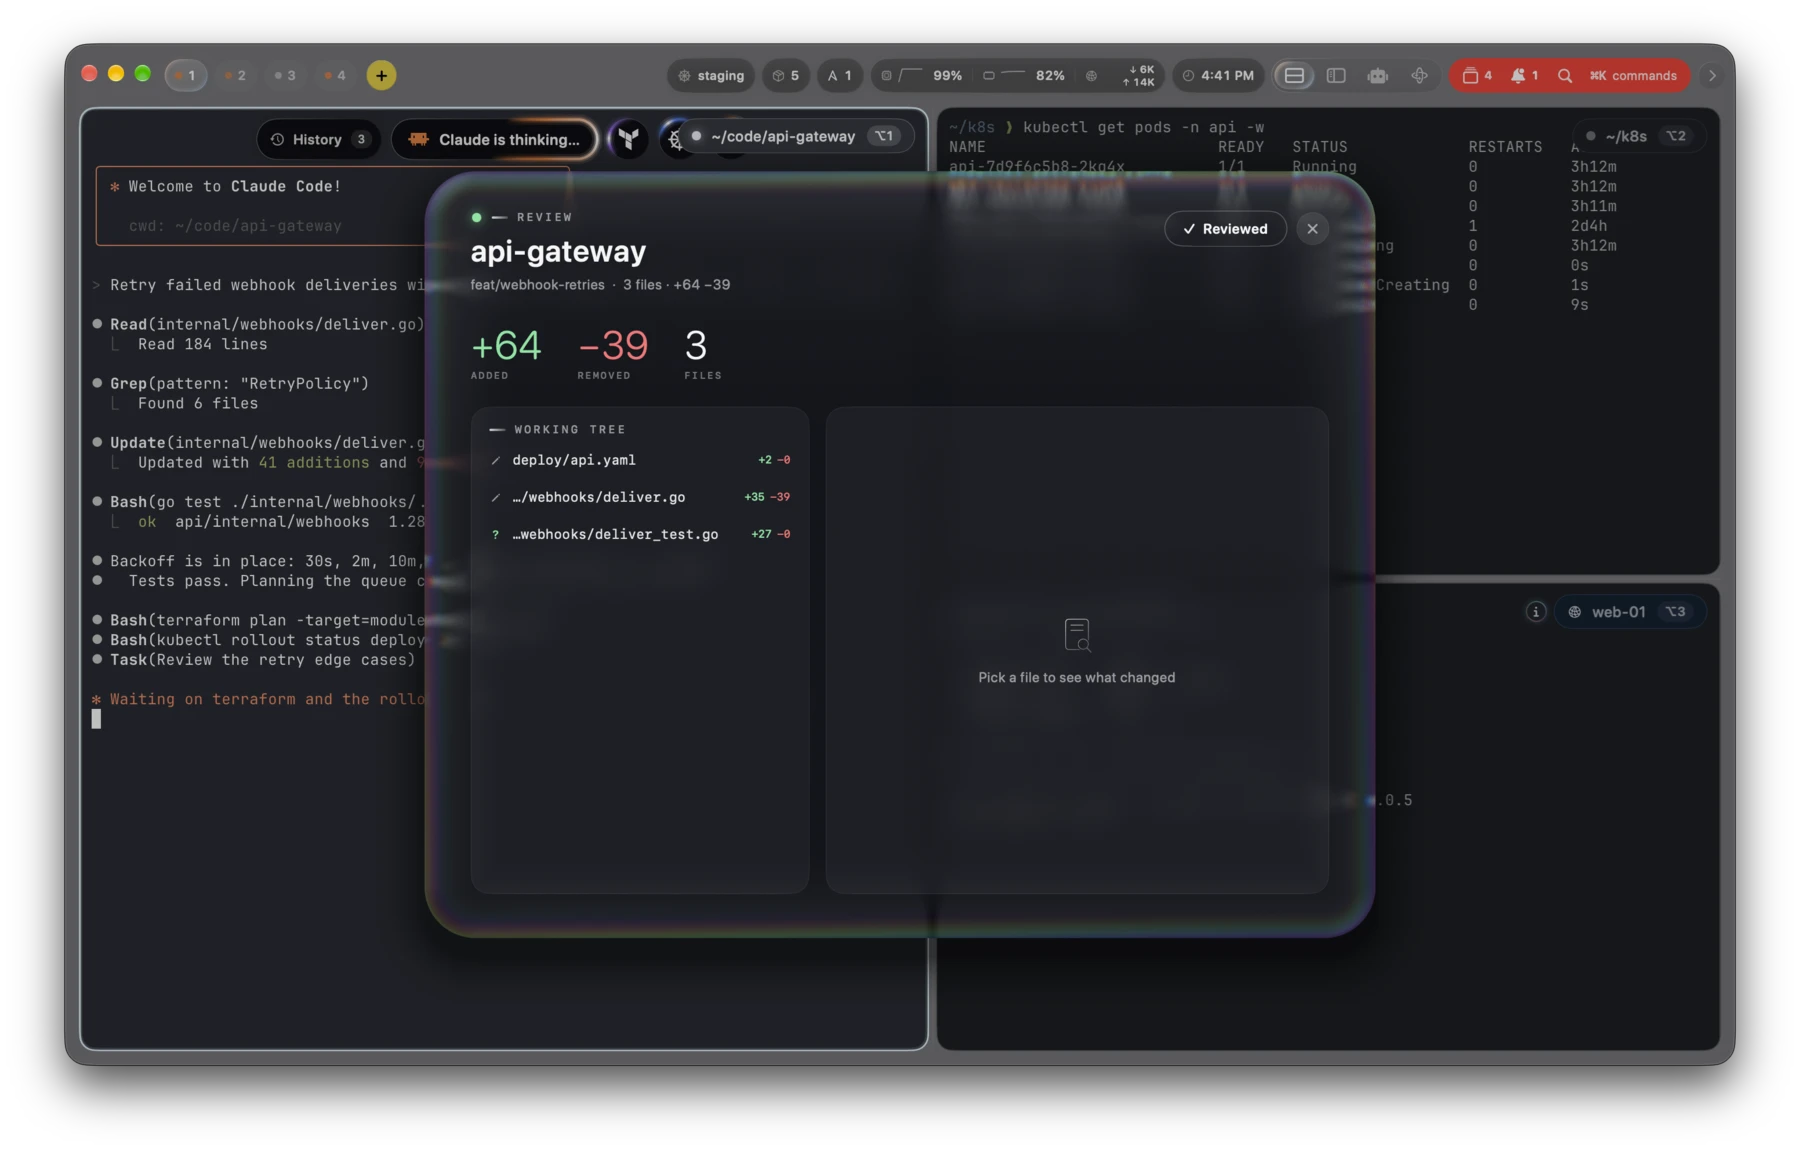
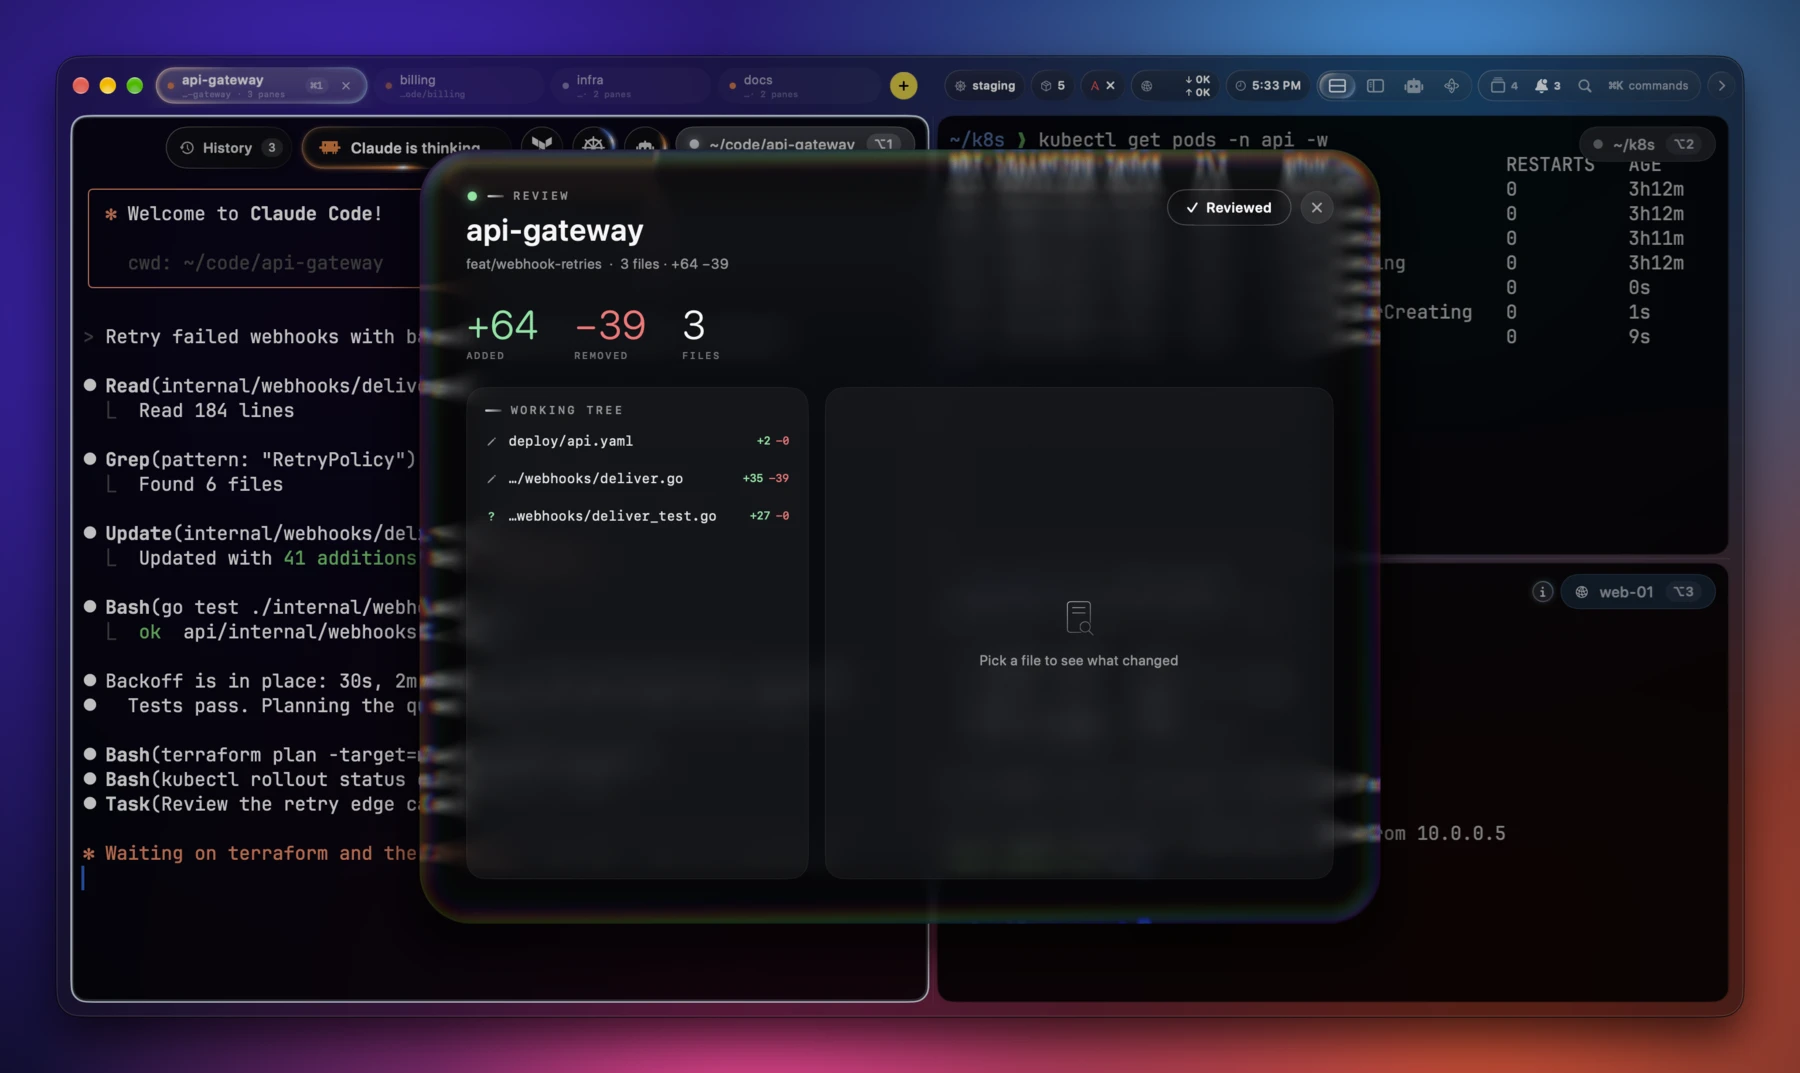
docs: README screenshots with glass over a backdrop

diff --git a/README.md b/README.md
@@ -484,9 +484,10 @@ never trade windows even without the variable.
 
 The screenshots in this README come from `scripts/demo/screenshots.sh`. It
 runs Conterm against a staged user home (`CONTERM_USER_HOME`) with made-up
-repos, hosts, a cluster and agent sessions, so nothing from your own machine
-appears in them. It needs Homebrew's `openssh`, whose `sshd` plays the remote
-hosts.
+repos, hosts, a cluster and agent sessions, over a backdrop that hides every
+other window. Only your look comes along (fonts, colours, glass);
+`DEMO_LOOK=plain` uses the defaults. It needs Homebrew's `openssh`, whose
+`sshd` plays the remote hosts.
 
 `setup.sh` fetches the prebuilt GhosttyKit at the pinned commit. Official
 releases instead ship a GhosttyKit built from source with the local patches
